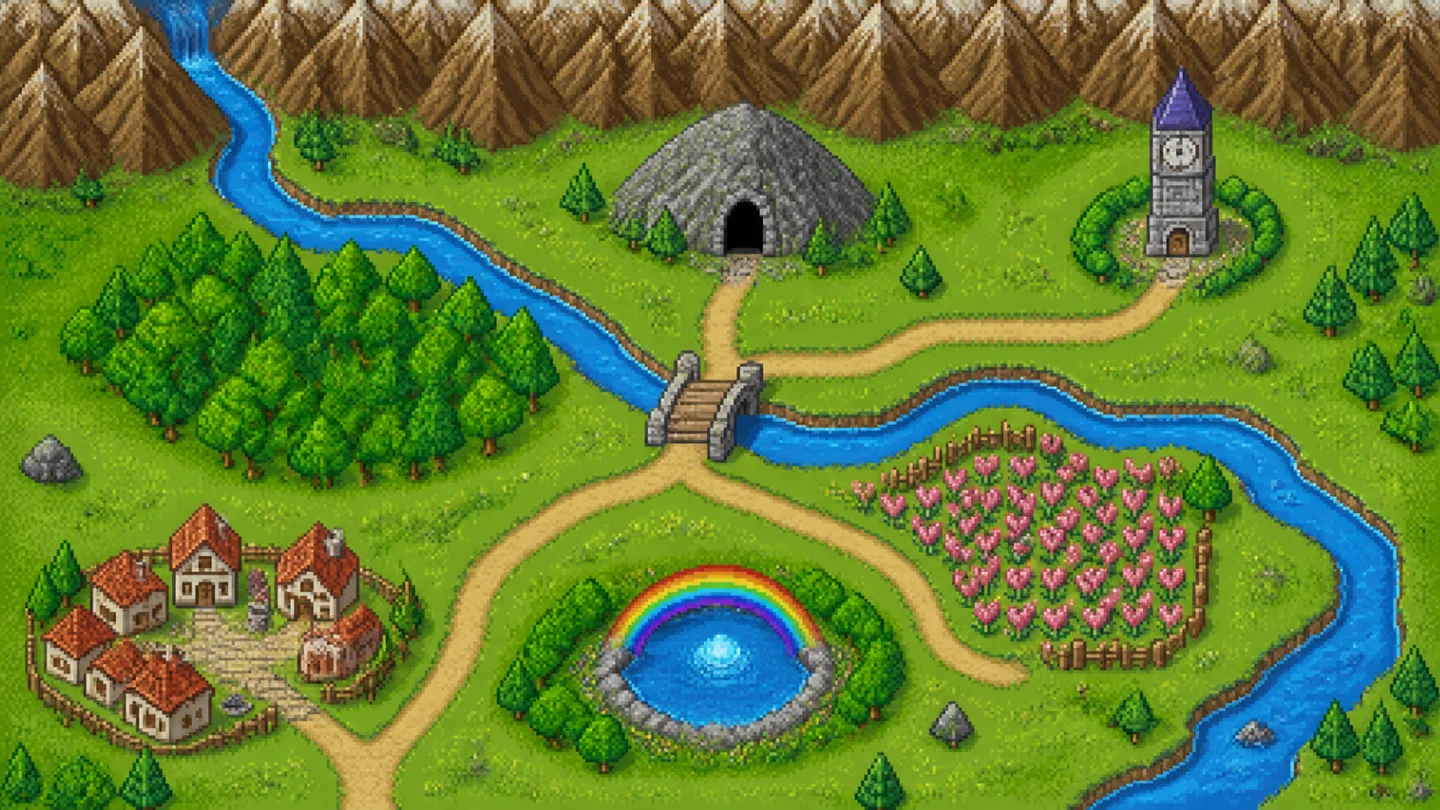
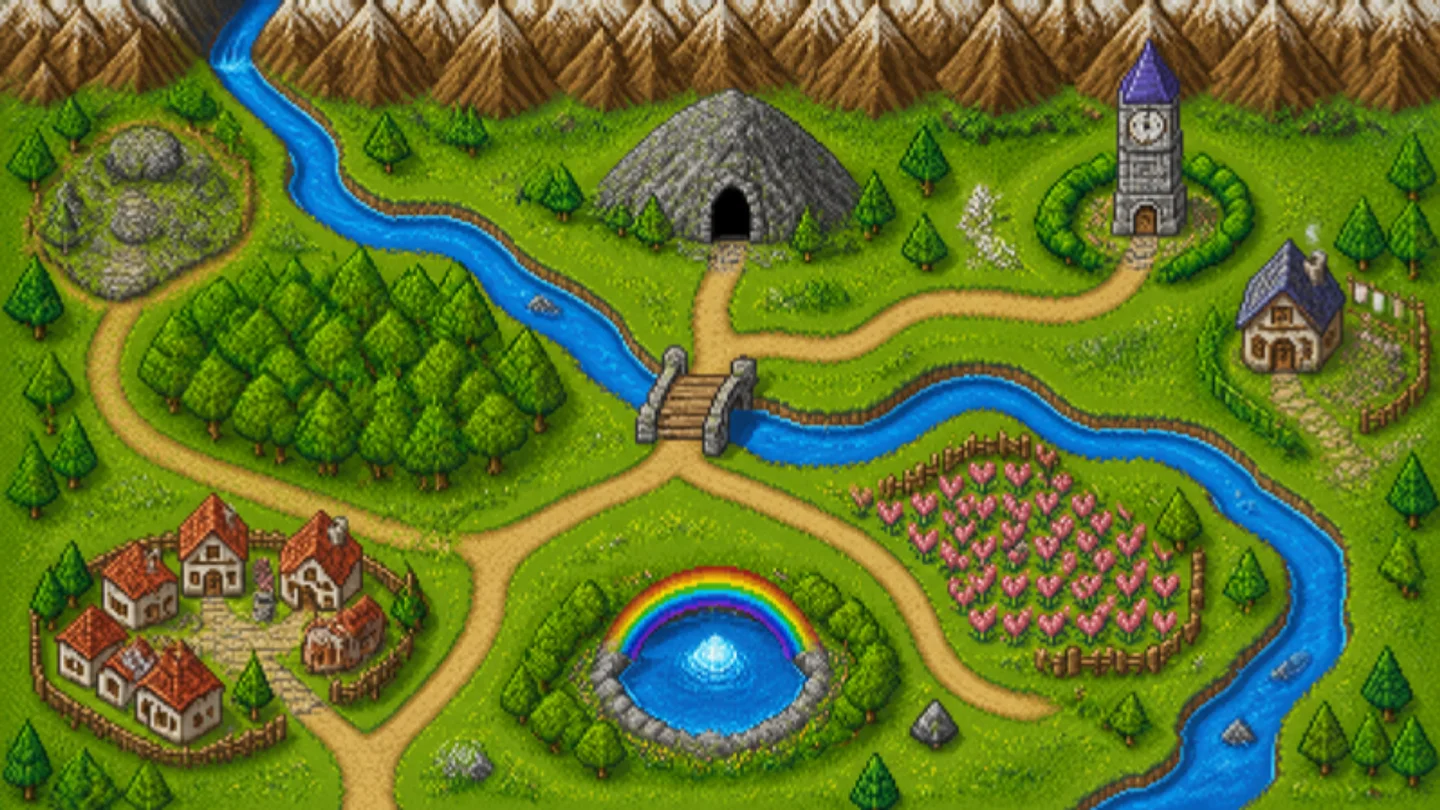
ことばの ぼうけんの はじまりの ちほう（1年生）の 地図を 8か所に 作り直す（Canva）
- map_c1.webp を 新しい 地図に 入れかえ、8つの ばしょの いちを 合わせる

Claude-Session: https://claude.ai/code/session_01AVrv6GXmxPiMR5hUxQ2YJ5

diff --git a/kotoba/data/kotoba.js b/kotoba/data/kotoba.js
@@ -1470,17 +1470,17 @@
 
   // ---- ばしょ（x, y は ちほうの ちずの 上の いち。%）----
   const PLACES = [
-    { id: '1-1', name: 'はじまりの むら', group: 'なかまを まとめる ことば', icon: '🏡', color: '#16a34a', bg: '#dcfce7', x: 15, y: 82,
+    { id: '1-1', name: 'はじまりの むら', group: 'なかまを まとめる ことば', icon: '🏡', color: '#16a34a', bg: '#dcfce7', x: 15, y: 77,
       intro: 'ここは はじまりの むら。どうぐや かぐなど、なかまを まとめる ことばが にげだして いるよ。' },
-    { id: '1-2', name: 'そよかぜの もり', group: 'うごきの ことば', icon: '🌳', color: '#15803d', bg: '#d9f99d', x: 25, y: 50,
+    { id: '1-2', name: 'そよかぜの もり', group: 'うごきの ことば', icon: '🌳', color: '#15803d', bg: '#d9f99d', x: 23, y: 46,
       intro: 'そよかぜの もりには、たずねる、てつだう など、うごきを あらわす ことばが かくれて いるよ。' },
-    { id: '1-3', name: 'にじいろの いずみ', group: 'ようすの ことば（はんたいの くみ）', icon: '⛲', color: '#0891b2', bg: '#cffafe', x: 49, y: 86,
+    { id: '1-3', name: 'にじいろの いずみ', group: 'ようすの ことば（はんたいの くみ）', icon: '⛲', color: '#0891b2', bg: '#cffafe', x: 49, y: 80,
       intro: 'にじいろの いずみには、ふかい と あさい のように、はんたいの いみの ことばが いるよ。' },
-    { id: '1-4', name: 'きもちの はなばたけ', group: 'きもちの ことば', icon: '🌷', color: '#db2777', bg: '#fce7f3', x: 73, y: 70,
+    { id: '1-4', name: 'きもちの はなばたけ', group: 'きもちの ことば', icon: '🌷', color: '#db2777', bg: '#fce7f3', x: 72, y: 64,
       intro: 'きもちの はなばたけには、くやしい、さびしい など、こころの ようすを あらわす ことばが さいて いるよ。' },
-    { id: '1-5', name: 'おとの どうくつ', group: 'ようすや おとを あらわす ことば', icon: '🕳', color: '#57534e', bg: '#e7e5e4', x: 52, y: 32,
+    { id: '1-5', name: 'おとの どうくつ', group: 'ようすや おとを あらわす ことば', icon: '🕳', color: '#57534e', bg: '#e7e5e4', x: 50, y: 22,
       intro: 'おとの どうくつでは、そっと、ぐんぐん など、ようすや おとを あらわす ことばが ひびいて いるよ。' },
-    { id: '1-6', name: 'ときの とう', group: 'ときを あらわす ことば', icon: '🗼', color: '#7c3aed', bg: '#ede9fe', x: 82, y: 32,
+    { id: '1-6', name: 'ときの とう', group: 'ときを あらわす ことば', icon: '🗼', color: '#7c3aed', bg: '#ede9fe', x: 80, y: 22,
       intro: 'ときの とうには、おととい、あさって など、ときを あらわす ことばが あつまって いるよ。' },
     { id: '2-1', name: 'みなとまち', group: 'ばしょを あらわす ことば', icon: '⚓', color: '#0284c7', bg: '#dbeafe', x: 20, y: 78,
       intro: 'ようこそ、みなとまちへ。ここには、となり、むこう など、ばしょを あらわす ことばが いるよ。' },
@@ -1518,9 +1518,9 @@
       intro: 'じゅくごの ひこうせんには、ようい、せいこう など、2つの かんじで できた ことばが のって いるよ。' },
     { id: '4-6', name: 'てんくうの しろ', group: 'こころや ようすの ことば', icon: '🏰', color: '#6d28d9', bg: '#ede9fe', x: 77, y: 24,
       intro: 'てんくうの しろには、ほこらしい、おだやか など、こころや ようすを あらわす ことばが あつまって いるよ。' },
-    { id: '1-7', name: 'でこぼこ いわば', group: 'かたちや さわった かんじの ことば', icon: '🪨', color: '#a16207', bg: '#fef3c7', x: 30, y: 20,
+    { id: '1-7', name: 'でこぼこ いわば', group: 'かたちや さわった かんじの ことば', icon: '🪨', color: '#a16207', bg: '#fef3c7', x: 10, y: 22,
       intro: 'でこぼこ いわばには、まるい、つるつる など、かたちや さわった かんじを あらわす ことばが ころがって いるよ。' },
-    { id: '1-8', name: 'おてつだいの こみち', group: 'くらしの うごきの ことば', icon: '🧺', color: '#be123c', bg: '#ffe4e6', x: 92, y: 60,
+    { id: '1-8', name: 'おてつだいの こみち', group: 'くらしの うごきの ことば', icon: '🧺', color: '#be123c', bg: '#ffe4e6', x: 89, y: 42,
       intro: 'おてつだいの こみちには、かたづける、たたむ など、くらしの なかの うごきの ことばが いるよ。ここが はじまりの ちほうの さいごの ばしょだよ。' },
     { id: '2-7', name: 'そらもようの みさき', group: 'てんきや しぜんの ことば', icon: '🌦', color: '#0369a1', bg: '#e0f2fe', x: 35, y: 15,
       intro: 'そらもようの みさきには、はれ、にじ など、てんきや しぜんを あらわす ことばが ふって くるよ。' },
